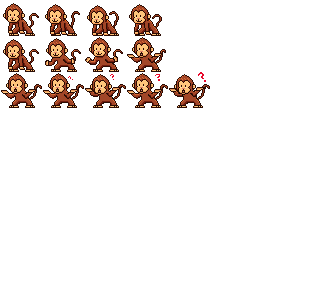
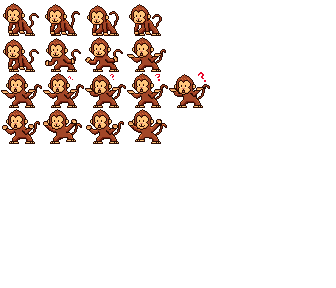
Refactor code structure for improved readability and maintainability

Changed region(s): [[0.0, 0.375, 0.506, 0.5]]

diff --git a/src/game/scenes/levels/DemoGame.ts b/src/game/scenes/levels/DemoGame.ts
@@ -132,6 +132,7 @@ export class DemoGame extends Scene implements BubbleScene{
 
     private showNextBubble(): void {
         this.currentBubbleIndex++;
+        this.animal.play("idle");
 
         this.resetAttempts();
         
@@ -206,7 +207,7 @@ export class DemoGame extends Scene implements BubbleScene{
             }
 
             this._isBubbleActive = false;
-            this.animal.play("idle");
+            //this.animal.play("idle");
             this.statusText.setText("Selecciona una burbuja con este fonema");
         });
 
@@ -303,7 +304,6 @@ export class DemoGame extends Scene implements BubbleScene{
         if (word.includes(this.selectedBubble.getName())) {
             this.statusText.setText("¡Correcto!");
             this.attemptsText.setVisible(false);
-            this.animal.play("celebrate");
 
             this.selectedBubble.pop();
             this.selectedBubble = null;
@@ -318,9 +318,11 @@ export class DemoGame extends Scene implements BubbleScene{
     public onBubblePopped(bubble: Bubble): void {
         if (bubble.isPopped) {
             this.poppedBubbles++;
+            this.animal.play("celebrate");
+
             this.music.resume();
             
-            this.time.delayedCall(800, () => {
+            this.time.delayedCall(1200, () => {
                 this.showNextBubble();
             });
         }
@@ -339,6 +341,7 @@ export class DemoGame extends Scene implements BubbleScene{
                         frameRate: 5,
                         repeat: -1
                     });
+                    this.animal.play("celebrate");
                     this.button.play("shine");
                     this.button.setInteractive();
                     this.button.on("pointerdown", () => {

diff --git a/src/game/scenes/levels/OclusivasSordasGame.ts b/src/game/scenes/levels/OclusivasSordasGame.ts
@@ -184,6 +184,7 @@ export class OclusivasSordasGame extends Scene implements BubbleScene {
 
     private showNextBubble(): void {
         this.currentBubbleIndex++;
+        this.animal.play("idle");
 
         this.resetAttempts();
         
@@ -269,7 +270,6 @@ export class OclusivasSordasGame extends Scene implements BubbleScene {
             }
 
             this._isBubbleActive = false;
-            this.animal.play("idle");
             this.statusText.setText("Selecciona una burbuja con este fonema");
         });
 
@@ -395,7 +395,6 @@ export class OclusivasSordasGame extends Scene implements BubbleScene {
         if (word.includes(this.selectedBubble.getName())) {
             this.statusText.setText("¡Correcto!");
             this.attemptsText.setVisible(false);
-            this.animal.play("celebrate");
 
             this.processAudio(true);
 
@@ -413,6 +412,7 @@ export class OclusivasSordasGame extends Scene implements BubbleScene {
         if (bubble.isPopped) {
             this.poppedBubbles++;
             this.music.resume();
+            this.animal.play("celebrate");
             
             this.time.delayedCall(800, () => {
                 this.showNextBubble();
@@ -434,6 +434,7 @@ export class OclusivasSordasGame extends Scene implements BubbleScene {
                         repeat: -1
                     });
                     this.button.play("shine");
+                    this.animal.play("celebrate");
                     this.button.setInteractive();
                     this.button.on("pointerdown", () => {
                         this.cleanup();

diff --git a/src/game/scenes/levels/NasalesGame.ts b/src/game/scenes/levels/NasalesGame.ts
@@ -184,6 +184,7 @@ export class NasalesGame extends Scene implements BubbleScene {
 
     private showNextBubble(): void {
         this.currentBubbleIndex++;
+        this.animal.play("idle");
 
         this.resetAttempts();
         
@@ -395,7 +396,6 @@ export class NasalesGame extends Scene implements BubbleScene {
         if (word.includes(this.selectedBubble.getName())) {
             this.statusText.setText("¡Correcto!");
             this.attemptsText.setVisible(false);
-            this.animal.play("celebrate");
 
             this.processAudio(true);
 
@@ -413,6 +413,7 @@ export class NasalesGame extends Scene implements BubbleScene {
         if (bubble.isPopped) {
             this.poppedBubbles++;
             this.music.resume();
+            this.animal.play("celebrate");
             
             this.time.delayedCall(800, () => {
                 this.showNextBubble();
@@ -434,6 +435,7 @@ export class NasalesGame extends Scene implements BubbleScene {
                         repeat: -1
                     });
                     this.button.play("shine");
+                    this.animal.play("celebrate");
                     this.button.setInteractive();
                     this.button.on("pointerdown", () => {
                         this.cleanup();

diff --git a/src/game/config/Configuration.ts b/src/game/config/Configuration.ts
@@ -42,7 +42,7 @@ export const Configuration: ConfigStructure = {
                         { key: "idle", frameRate: 5, frames: { start: 0, end: 3 }, repeat: -1},
                         { key: "stand", frameRate: 7, frames: { start: 8, end: 11 }, repeat: 0 },
                         { key: "doubt", frameRate: 4, frames: { start: 16, end: 20 }, repeat: -1, yoyo: true },
-                        { key: "celebrate", frameRate: 7, frames: { start: 24, end: 27 }, repeat: 2 }
+                        { key: "celebrate", frameRate: 5, frames: { start: 24, end: 27 }, repeat: -1 }
                     ]
                 }
             },

diff --git a/src/services/SpeechRecognitionService.ts b/src/services/SpeechRecognitionService.ts
@@ -55,7 +55,15 @@ export class SpeechRecognitionService {
         }
 
         try {
-            this.audioStream = await navigator.mediaDevices.getUserMedia({ audio: true });
+            this.audioStream = await navigator.mediaDevices.getUserMedia({ 
+                audio: {
+                    echoCancellation: true,
+                    noiseSuppression: true,
+                    autoGainControl: true
+                }
+            });
+
+            await new Promise(resolve => setTimeout(resolve, 300));
 
             this.startMediaRecording(this.audioStream);
 
